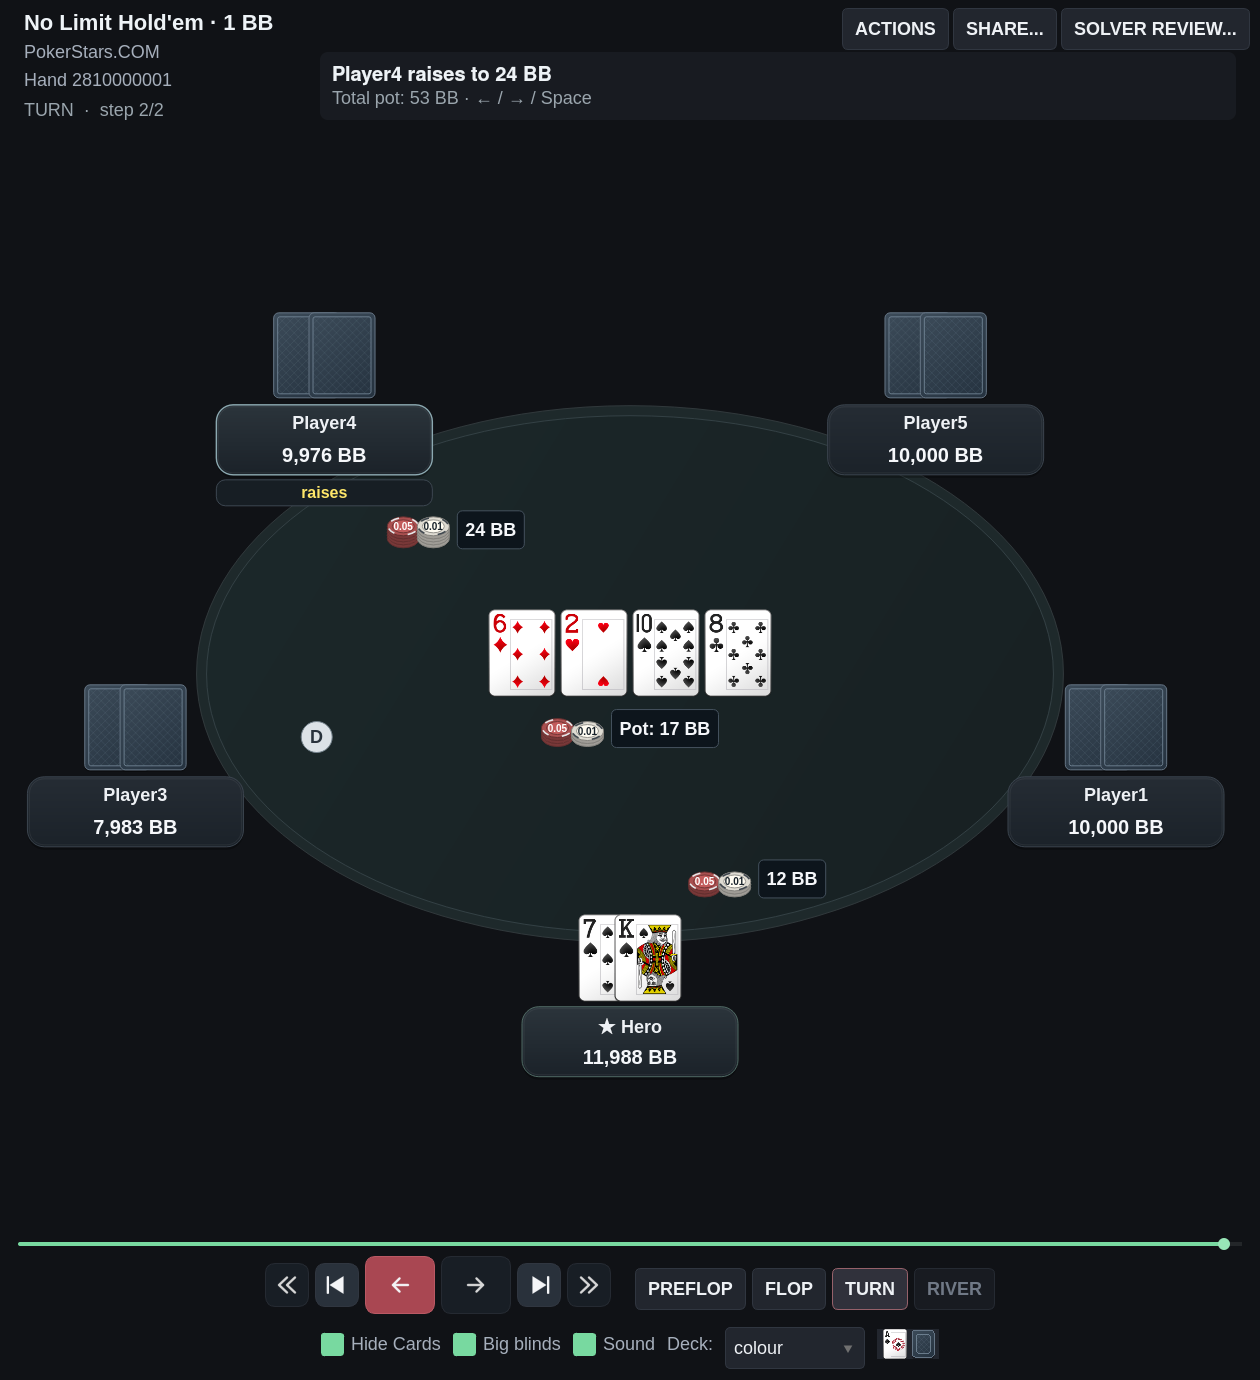
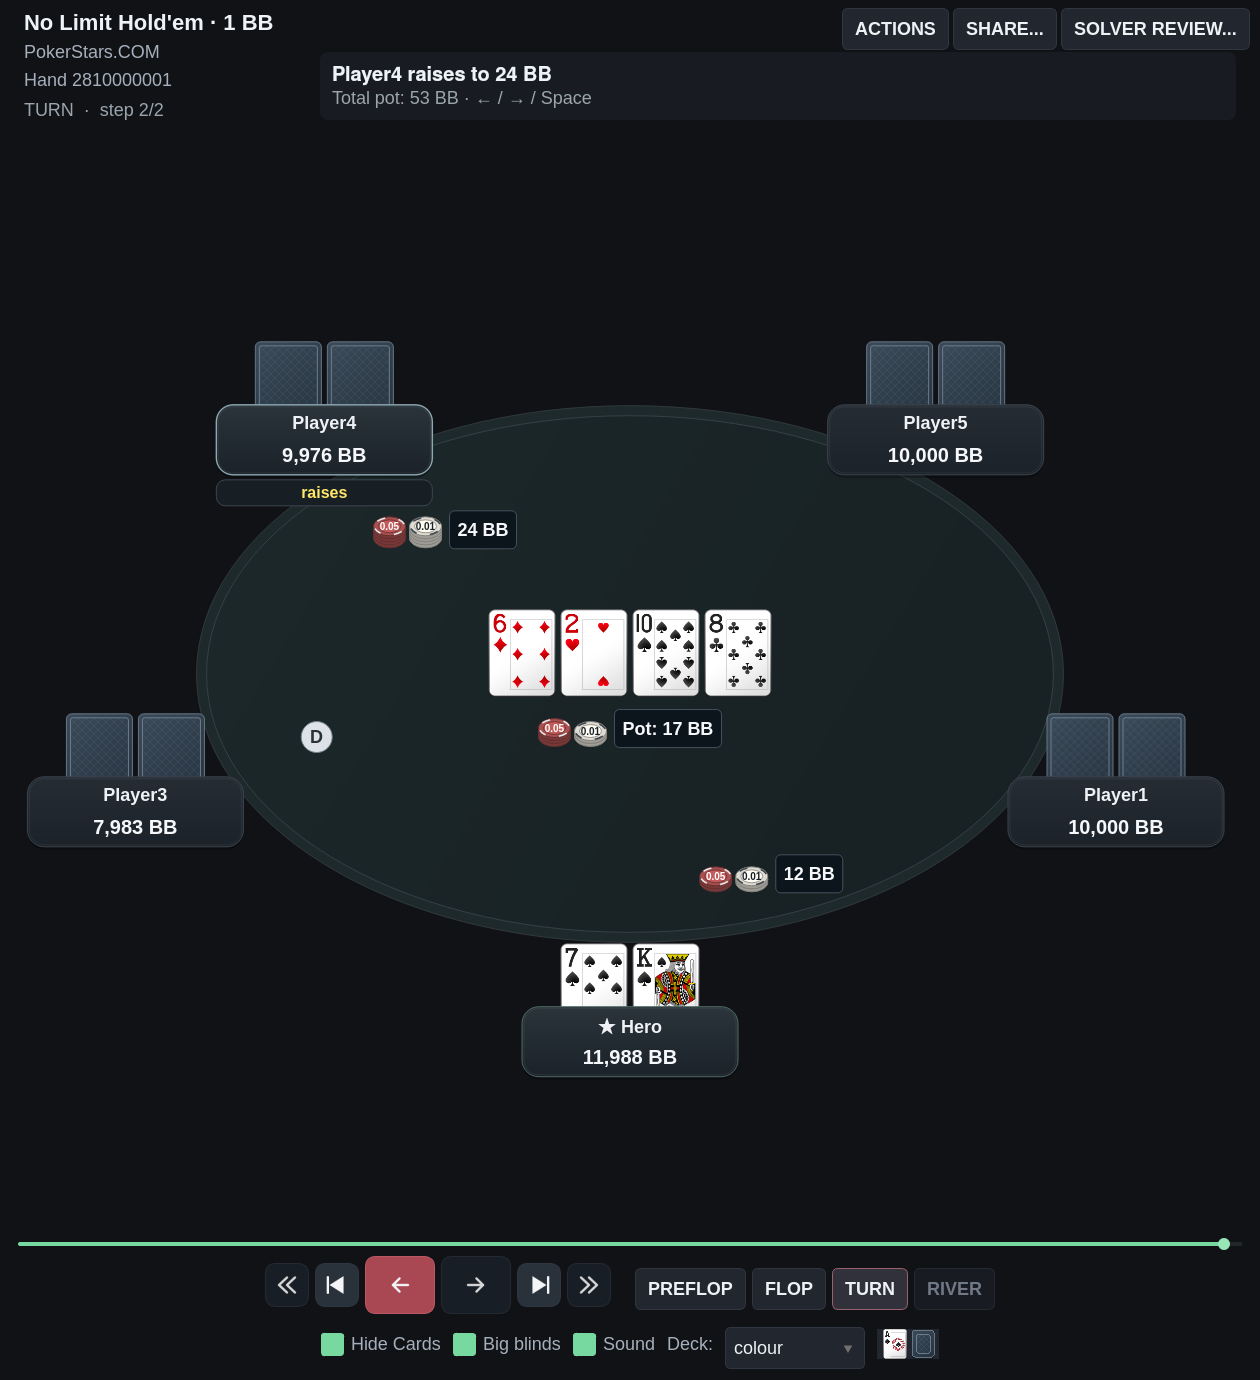
docs: refresh side-by-side cards and separated chip stack evidence

diff --git a/docs/REPLAYER_POKERSTARS_CARDS.md b/docs/REPLAYER_POKERSTARS_CARDS.md
@@ -32,8 +32,24 @@ mais legíveis e identificação inequívoca do dono de cada aposta.
 - Fichas de 32 px, com bordas segmentadas, profundidade e denominação impressa.
   A decomposição continua exata; os valores impressos são unidades canônicas,
   enquanto o rótulo do total acompanha o modo monetário ou BB.
+- Pilhas de denominações lado a lado, com **4 px livres entre colunas**.
+  O orçamento de largura nunca comprime uma pilha sobre a vizinha. Em grupos
+  largos, o total pode ir abaixo das pilhas para manter a aposta mais próxima
+  do seu assento, preservando a separação e a contenção no feltro.
 - Volume local fixo em **50%**, substituindo os 100% da etapa anterior, com
   o controle **Sound** para ativar/silenciar.
+
+## Cartas lado a lado e atrás da placa
+
+O ajuste inspirado nas novas referências do PokerStars posiciona as cartas
+do jogador em uma fileira, com **4 px de intervalo**, sem sobreposição entre
+elas. Aproximadamente **28% da altura inferior** fica atrás da placa do jogador,
+que é desenhada depois das cartas. A fileira permanece centralizada sobre
+o nick/stack e as dimensões individuais das cartas são preservadas.
+
+O mesmo espaçamento é usado nos destaques de vencedores, runouts e animações
+de fold/descarte. Os retângulos reservados às cartas e às apostas acompanham
+a nova geometria.
 
 ## Faces completas
 
@@ -42,7 +58,7 @@ em `site_path`, lidas diretamente de
 `Gx/table-view/cards/default/1440/cache/<rank><suit>.png`.
 Isso inclui todos os pips das cartas numéricas e as figuras de J, Q e K.
 A suavização de imagem e a sombra discreta integram as faces à mesa, preservando
-as dimensões externas das cartas, a sobreposição e o verso do FPDB.
+as dimensões externas das cartas e o verso do FPDB.
 
 Quando uma face local não está disponível, o replayer usa o deck SVG `white`
 existente no projeto (Nicu Buculei/Open Clip Art Library, domínio público indicado
@@ -52,7 +68,7 @@ com uma mão pública de teste.
 
 ## Verificação
 
-- **213 testes direcionados aprovados**, incluindo layout, BB, fichas exatas,
+- **231 testes direcionados aprovados**, incluindo layout, BB, fichas exatas,
   fold, variantes, controles, áudio, equidade, compartilhamento e solver review.
 - Ruff aprovado nos arquivos alterados; mypy aprovado nos módulos de cartas,
   fichas e áudio.
@@ -70,6 +86,12 @@ com uma mão pública de teste.
 - **54 casos** cobrem cada assento em mesas de **2 a 10 jogadores**, com
   apostas simultâneas, board, pote e dealer, em três tamanhos e nos modos
   monetário/BB. Todos os grupos devem caber integralmente no oval e não colidir.
+- Verificação da ordem de pintura: cartas separadas são desenhadas antes da
+  placa que encobre suas bases. Layouts Hold'em, Omaha de seis cartas e Stud
+  preservam o espaçamento em janelas curtas, largas e verticais.
+- **15 casos** verificam as colunas efetivamente desenhadas para cinco valores
+  e três orçamentos de largura; as pilhas não se intersectam. Dois casos extras
+  conferem pilhas preservadas com o total abaixo em espaço estreito.
 - **25 mãos reais recentes**, **944 frames** e **2.306 grupos de aposta/pote**
   conferidos em 1280×720 e 1260×1380: todos dentro do feltro e sem sobreposição
   com os elementos reservados ou outros grupos. Essa conferência não gera

diff --git a/docs/REPLAYER_MANUAL_CONTROLS.md b/docs/REPLAYER_MANUAL_CONTROLS.md
@@ -14,6 +14,9 @@
 - Fontes do replayer ampliadas em 50%; deck colour com faces completas locais
   do PokerStars (refinamento posterior aos índices ampliados da primeira etapa).
   As dimensões externas das cartas usam a mesma referência de viewport anterior.
+- Cartas do jogador lado a lado, sem sobreposição entre elas, com as bases
+  atrás da placa de nick/stack. Pilhas de fichas separadas por denominação;
+  o valor pode ir abaixo das pilhas quando o espaço horizontal é insuficiente.
 - Checkbox Big blinds para stacks, apostas, potes, ganhos e ações do histórico.
   A preferência fica salva. Uma variante sem big blind utilizável não oferece
   uma conversão fictícia; porcentagens e razões de equidade permanecem nessas unidades.
